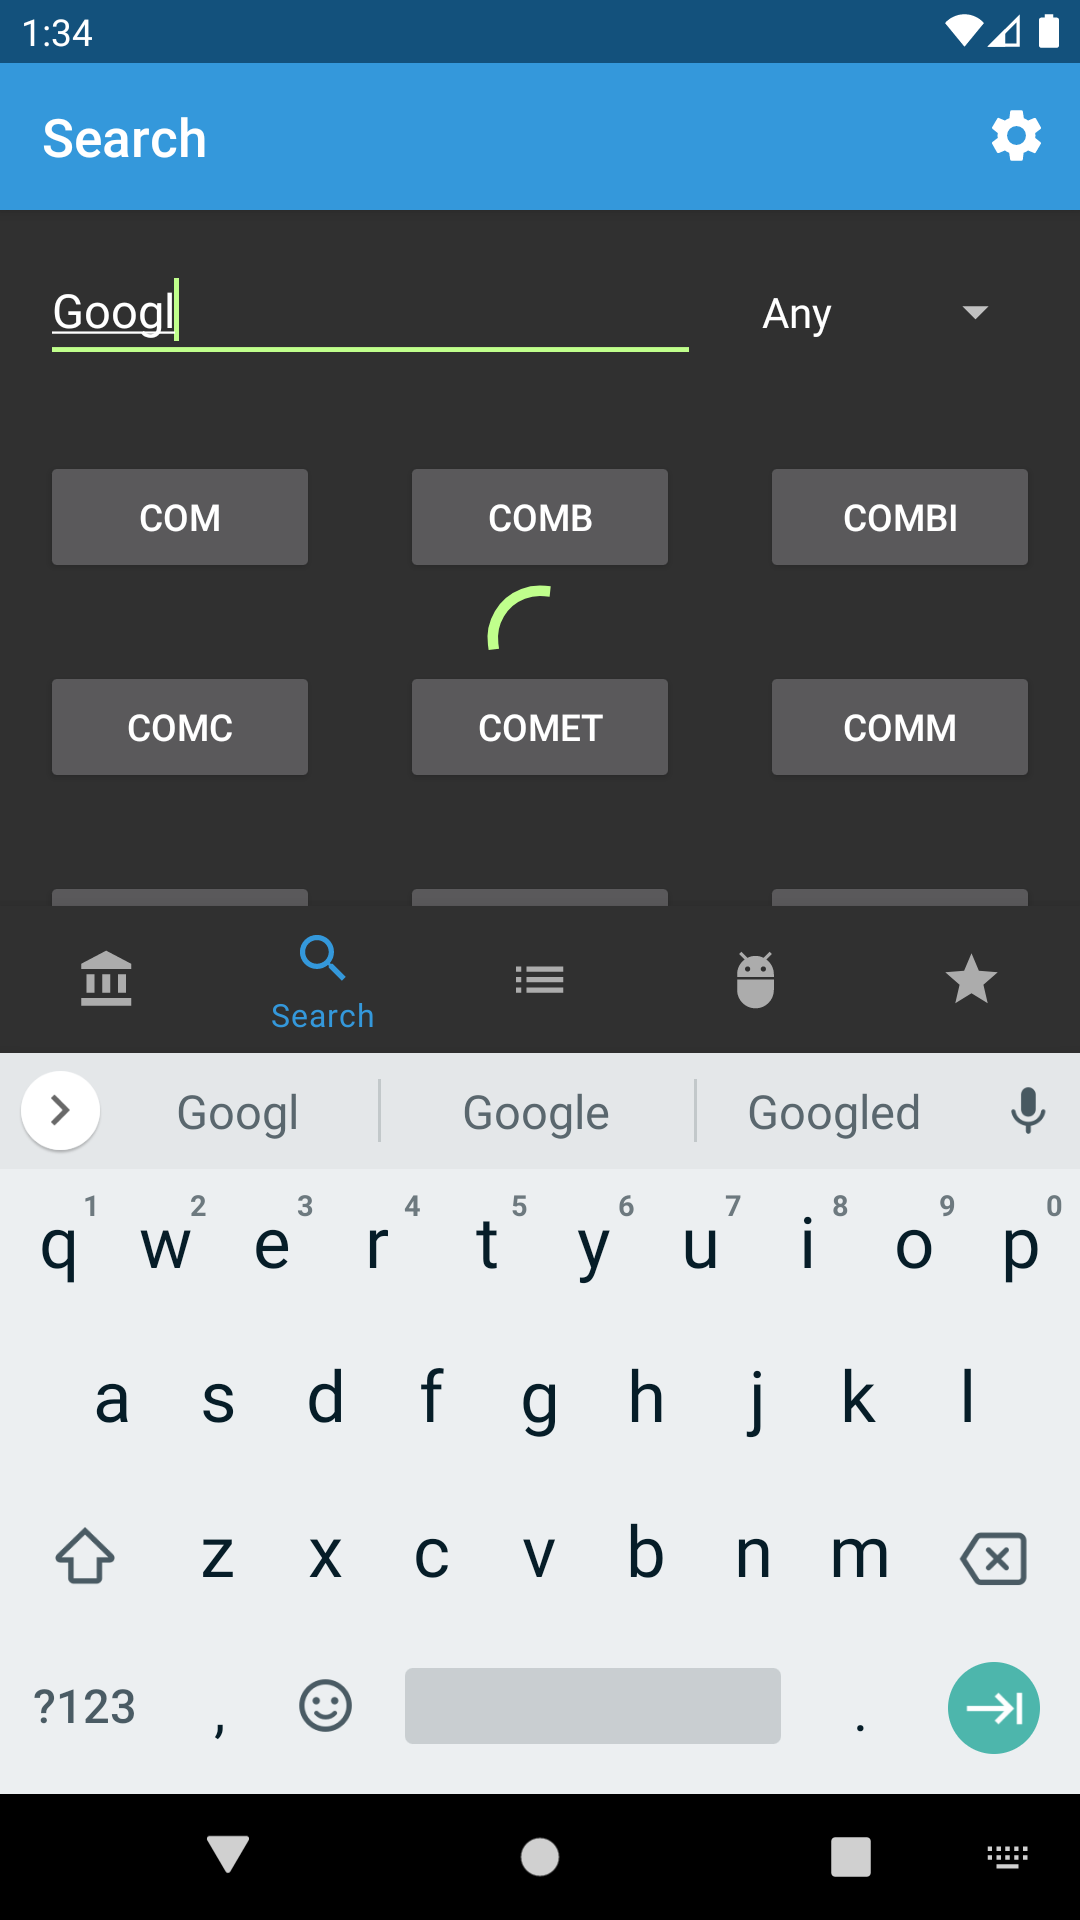
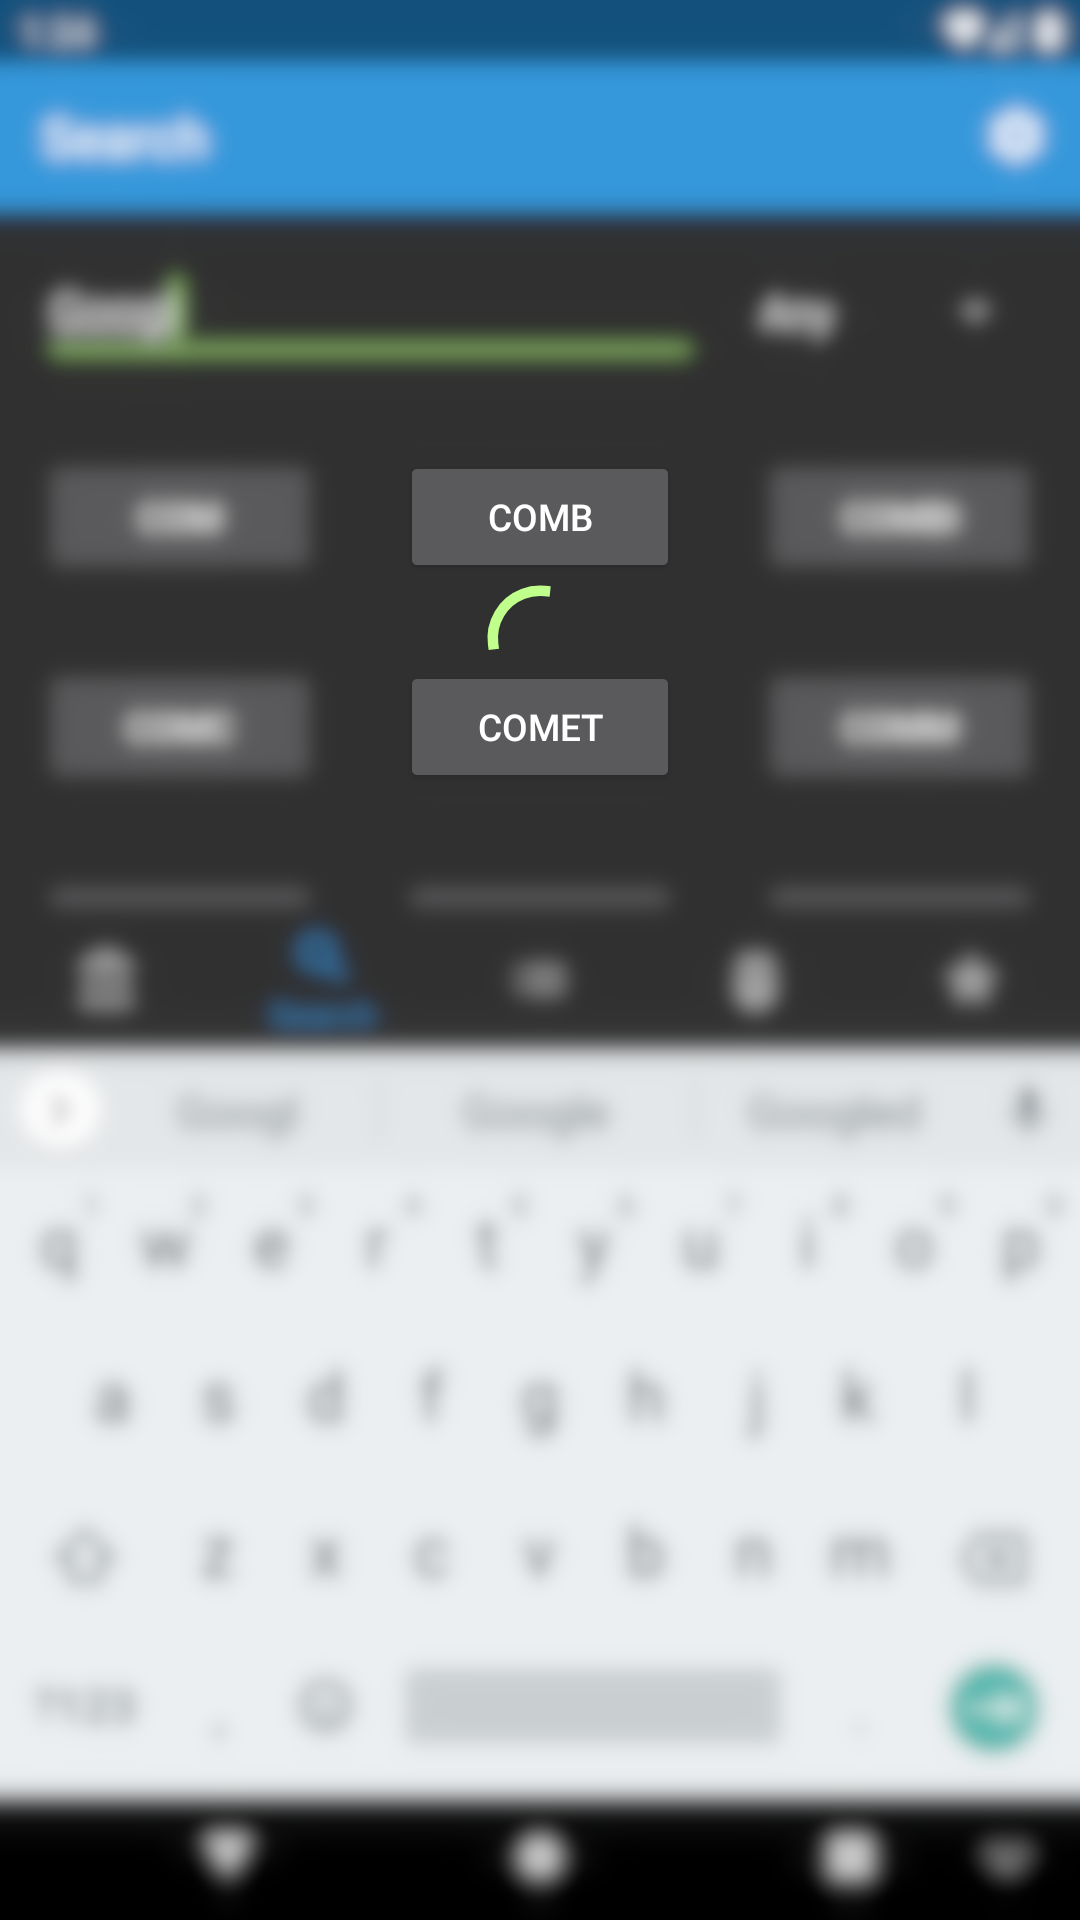
Blurred search images

diff --git a/stock-simulator.tex b/stock-simulator.tex
@@ -264,8 +264,6 @@ Das Einstellungsmenü ist über das Zahnrad in der Toolbar von allen Screens, au
 
 Weitere Navigation, wie zu den News oder zur Detailansicht eines Anlageguts, ist über Bedienelemente in Form von Buttons an entsprechenden Stellen möglich.
 
-%TODO Bilder blurren
-
 \begin{figure}[H]
 	\begin{subfigure}{.5\textwidth}
 		\centering
@@ -302,8 +300,6 @@ Während eine Suche stattfindet wird ein Fortschritts\-indikator angezeigt, um N
 Sollte eine Suche keine Ergebnisse liefern wird eine entsprechende Meldung angezeigt (siehe \autoref{fig:functionality:search:no-results}).
 
 Durch Klicken auf ein Suchergebnis können Nutzer zur Detailansicht dieses Anlageguts navigieren (siehe \autoref{subsec:functionality:quote}).
-
-%TODO Bilder blurren
 
 \begin{figure}[H]
 	\begin{subfigure}{.5\textwidth}
